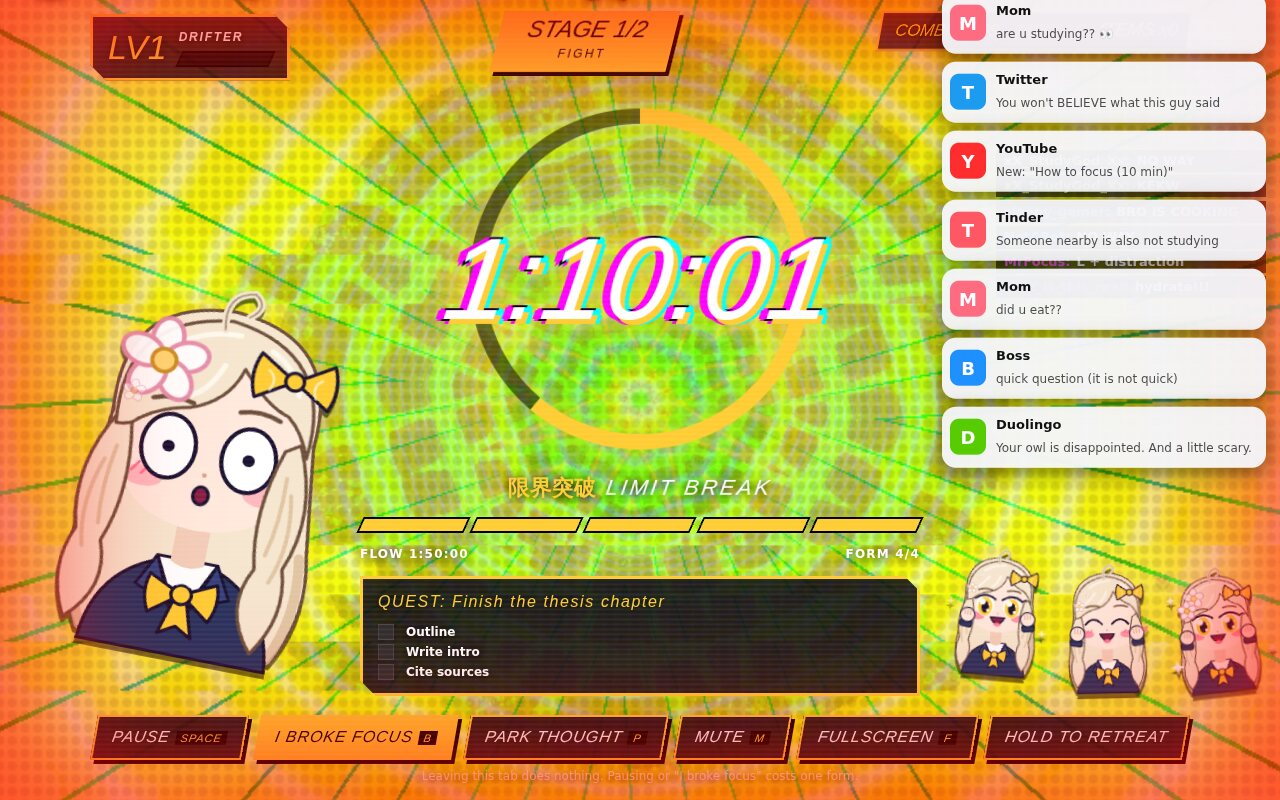
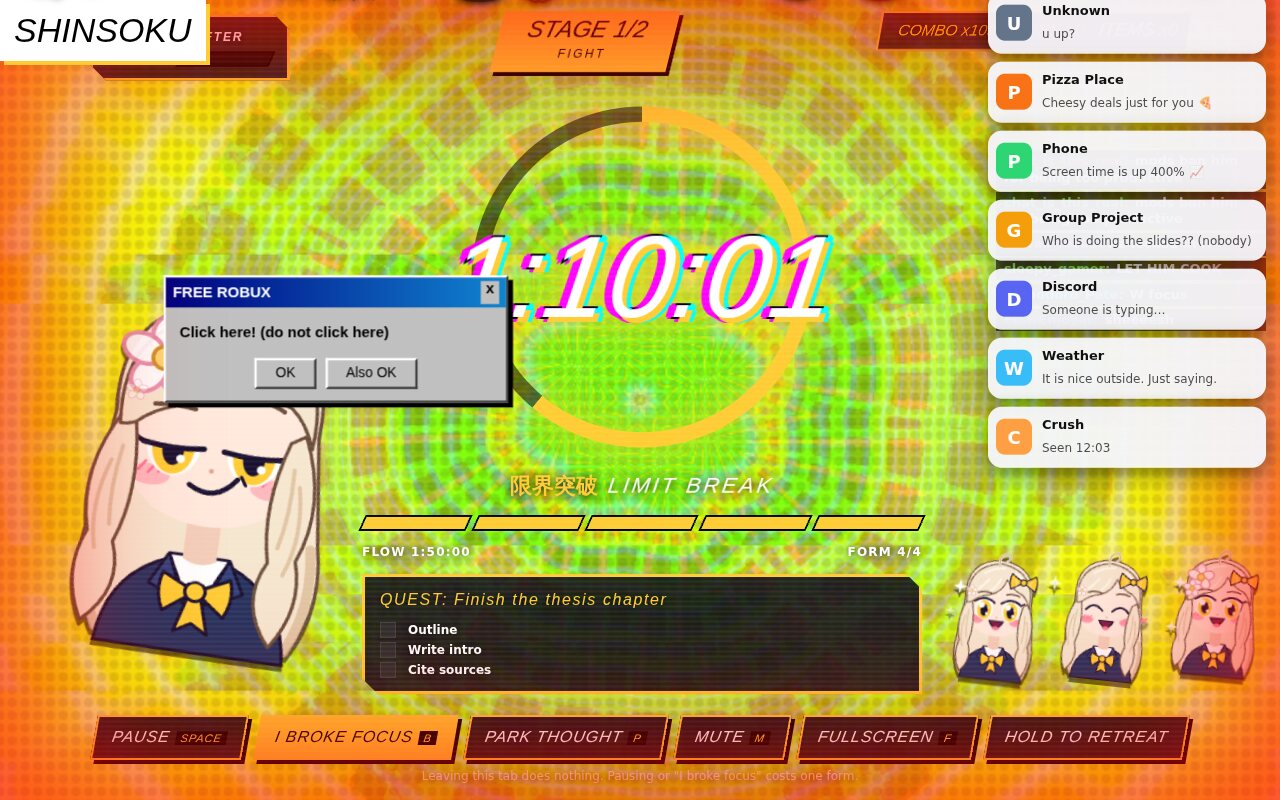
Redesign mascot, scale notification spam by form, add demo

diff --git a/src/Mascot.jsx b/src/Mascot.jsx
@@ -40,12 +40,12 @@ const MOUTHS = {
 // mood -> which parts to draw
 const MOODS = {
   focus: { eyes: 'open', mouth: 'smile', brow: 'flat' },
-  hype: { eyes: 'open', mouth: 'open', brow: 'up', sparkle: true, paws: true },
+  hype: { eyes: 'open', mouth: 'open', brow: 'up', sparkle: true },
   ultra: { eyes: 'open', iris: '#fff', mouth: 'open', brow: 'angry', sparkle: true, aura: true },
   smug: { eyes: 'lid', mouth: 'smirk', brow: 'smug' },
   cry: { eyes: 'open', mouth: 'cry', brow: 'sad', tears: true },
   sleep: { eyes: 'closed', mouth: 'o', brow: 'flat', zzz: true },
-  wink: { eyes: 'wink', mouth: 'open', brow: 'up', hearts: true, paws: true },
+  wink: { eyes: 'wink', mouth: 'open', brow: 'up', hearts: true },
   shades: { eyes: 'shades', mouth: 'open', brow: 'none' },
   shock: { eyes: 'shock', mouth: 'o', brow: 'up', sweat: true },
 };
@@ -97,15 +97,6 @@ const Star = ({ x, y, s = 1, d = 0 }) => (
 const Heart = ({ x, y, s = 1, d = 0 }) => (
   <path className="float-heart" style={{ animationDelay: `${d}s` }} transform={`translate(${x} ${y}) scale(${s})`} fill="#ff5c93" stroke="#fff" strokeWidth="1.5"
     d="M0 7 C-14 -3 -8 -14 0 -6 C8 -14 14 -3 0 7Z" />
-);
-
-// little hand that waves when she is hyped
-const Paw = ({ x, cls }) => (
-  <g className={`paw ${cls}`} style={{ transformOrigin: `${x}px 150px` }}>
-    <rect x={x - 11} y="146" width="22" height="12" rx="4" fill="#27325e" stroke={INK} strokeWidth="2" />
-    <circle cx={x} cy="136" r="13" fill={SKIN} stroke={INK} strokeWidth="2" />
-    <path d={`M${x - 5} 128 V136 M${x} 126 V136 M${x + 5} 128 V136`} stroke="#e0a08b" strokeWidth="1.6" strokeLinecap="round" />
-  </g>
 );
 
 const Flower = ({ x, y, s = 1, d = 0 }) => (
@@ -193,12 +184,6 @@ export function Soku({ mood = 'focus', size = 190 }) {
         </g>
         <Flower x={64} y={64} s={1.6} />
         <Flower x={50} y={86} s={1} d={0.35} />
-        {m.paws && (
-          <>
-            <Paw x={44} cls="paw-l" />
-            <Paw x={156} cls="paw-r" />
-          </>
-        )}
         {m.zzz && <text className="zzz" x="144" y="70">Z</text>}
         {m.sparkle && (
           <>

diff --git a/src/styles.css b/src/styles.css
@@ -336,10 +336,6 @@ html, body { margin: 0; background: #05060a; color: #fff; font-family: 'Segoe UI
 .mood-cry .ear-r { animation: none; transform: rotate(7deg); }
 .mascot-svg .bow { transform-origin: 142px 62px; animation: bowWig 2.4s ease-in-out infinite; }
 @keyframes bowWig { 50% { transform: rotate(7deg); } }
-.mascot-svg .paw-l { animation: pawL 0.3s ease-in-out infinite alternate; }
-.mascot-svg .paw-r { animation: pawR 0.3s ease-in-out infinite alternate; }
-@keyframes pawL { from { transform: rotate(-12deg); } to { transform: rotate(8deg); } }
-@keyframes pawR { from { transform: rotate(12deg); } to { transform: rotate(-8deg); } }
 .mascot-svg .float-heart { animation: heartUp 1.4s ease-out infinite; transform-box: fill-box; transform-origin: center; }
 @keyframes heartUp { 0% { translate: 0 10px; opacity: 0; scale: 0.5; } 30% { opacity: 1; } 100% { translate: 0 -30px; opacity: 0; scale: 1.2; } }
 .mascot-svg .ahoge-heart { animation: heartBeat 0.8s ease-in-out infinite alternate; transform-box: fill-box; transform-origin: center; }
